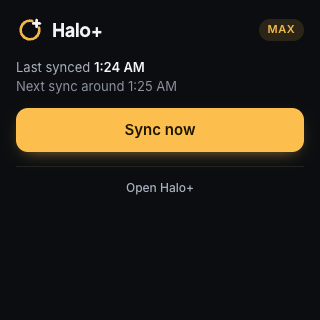
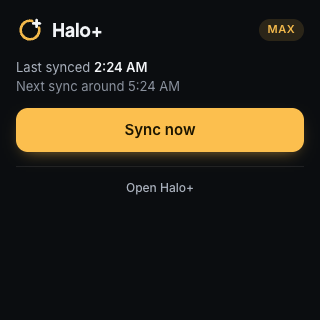
Loop 166: the extension popup's next sync is three hours after the last, not the same minute

Changed region(s): [[0.2812, 0.1875, 0.5625, 0.2812]]

diff --git a/extension/popup.js b/extension/popup.js
@@ -1,6 +1,6 @@
 // The popup: when Halo+ last synced and when it syncs next, a big Sync now with real progress, plain errors, and a link
 // to Halo+ (George, 2026-09-30). Everything is read from the worker's storage, so it stays current while it is open.
-import { DASH_ORIGIN } from './config.js';
+import { DASH_ORIGIN, PERIOD_MINUTES } from './config.js';
 
 const $ = (id) => document.getElementById(id);
 const PAID = ['plus', 'pro', 'max'];
@@ -41,7 +41,9 @@ async function render() {
   $('plan').textContent = PLAN_NAMES[s.tier] ?? '';
 
   const last = s.lastSyncAt ? `Last synced <b>${when(s.lastSyncAt)}</b>` : 'Not synced from here yet';
-  const next = paid && alarm ? `<span class="next">Next sync around ${when(new Date(alarm.scheduledTime).toISOString())}</span>` : '';
+  // Never earlier than three hours after the last sync: an alarm that fires sooner skips (synced recently).
+  const nextAt = alarm ? Math.max(alarm.scheduledTime, s.lastSyncAt ? new Date(s.lastSyncAt).getTime() + PERIOD_MINUTES * 60_000 : 0) : null;
+  const next = paid && nextAt ? `<span class="next">Next sync around ${when(new Date(nextAt).toISOString())}</span>` : '';
   $('status').innerHTML = s.running ? (s.lastSyncAt ? `Last synced <b>${when(s.lastSyncAt)}</b><span class="next">Syncing now</span>` : 'Syncing now') : last + next;
   $('plus').hidden = paid || !s.tier;
 

diff --git a/extension/background.js b/extension/background.js
@@ -167,6 +167,9 @@ async function failed(e, auto) {
 
 async function finish(payload, auto) {
   payload.auto = auto;
+  // Every sync restarts the three hours from now: a Sync now just after install otherwise left the first alarm a
+  // minute away, and the popup said "Last synced 2:19 AM · Next sync around 2:19 AM" (2026-09-30).
+  await chrome.alarms.create(ALARM, { when: Date.now() + PERIOD_MINUTES * 60_000, periodInMinutes: PERIOD_MINUTES });
   const where = await deliver(payload, auto);
   await set({
     lastSyncAt: new Date().toISOString(),

diff --git a/LOOP_LOG.md b/LOOP_LOG.md
@@ -192,3 +192,4 @@ One line per change, newest last. Proposals that need George's approval are mark
 - 2026-09-30 · Loop 163 (overnight loop 6 of 10) · The landing page, where every ad click lands. Four things a visitor would catch: (1) "on Plus a small Chrome extension also syncs by itself whenever you open Halo": wrong since loop 156; now "every 3 hours while Chrome is open", also on the Upgrade screen and in the Web Store listing (docs/webstore/LISTING.md, summary 119 of 132 characters, description rewritten for the background tab, Undo, logged-out and Sync now); (2) the demo card's heads-up said "Start the paper by Sep 29", already in the past today: now "Next week is heavy: 5 items, 400 pts. Start the paper this weekend." with no date that can go stale; (3) each price's terms broke into a stray "· Cancel anytime" line: they sit on their own line under "$4.99 a month"; (4) three plans in a four-column grid left an empty slot beside Max on desktop: three columns. Landing test updated for the new markup; e2e-tax-line PASS.
 - 2026-09-30 · Loop 164 (overnight loop 7 of 10) · New student on an iPad, dark (first-five walk, iPad dark and phone light, no console errors): Now's hero said "English DQ 1.1 · 10 pts · 67% of grade". The share was the item's points over whatever the class had on file, with no minimum, so right after a first sync (or whenever Halo lists only a few assignments) a 10-point discussion looked like two-thirds of the grade; the sweep account showed "Quiz 2 · 50 pts · 53% of grade" the same way, and the old test even expected "100% of grade" for a lone item. The share now needs at least six pointed items in the class (domain/share.ts SHARE_MIN_ITEMS); below that the chip says just "10 pts". Checked against George's real account (read only): every class has 27 to 41 pointed items and about 1,000 points, so real students still see it. Tests: share and heroFacts updated (a thin class shows the points alone).
 - 2026-09-30 · Loop 165 (overnight loop 8 of 10) · Daily user, Calendar → Month (sweep, desk dark and phone light/dark). Today's cell looked broken: the "30" spilled out of its gold circle (a fixed 22 px circle with 6 px side padding leaves 10 px for two digits; it is now a pill with a 22 px minimum), and in dark mode today's item chip was near-black text on dark grey ("Topic 4 DQ…" barely readable): a dark-theme rule meant for the old filled chips set #0f1216 on every today chip and outranked the plain month chip; it now skips plain chips. On a phone each cell is ~44 px, so the day number and its count badge ("29 1", "30 1") spilled out side by side; under 640 px they stack (number, then count) and the cell padding tightens. Re-swept all three, no findings.
+- 2026-09-30 · Loop 166 (overnight loop 9 of 10) · The extension (scripts/e2e-extension.mjs against a fresh haloplus.app build, unpacked in Chromium): everything held (Sync now with real progress, logged out calmly with no badge, the background Halo tab opened inactive and closed, quiet apply with Undo, waiting while Halo+ is closed, Free not scheduled), but the popup's own status line was wrong: "Last synced 2:19 AM · Next sync around 2:19 AM". On install with no sync yet the alarm is set a minute out; a Sync now just after did not move it, so the popup showed that alarm, which would then skip itself as "synced recently". Every successful sync now restarts the three hours from that moment, and the popup never shows a next time earlier than last sync + 3 h. The e2e now checks the gap: "Last synced 2:23 AM · Next sync around 5:23 AM" (180 minutes). Extension 0.2.1 (reload it in chrome://extensions).
